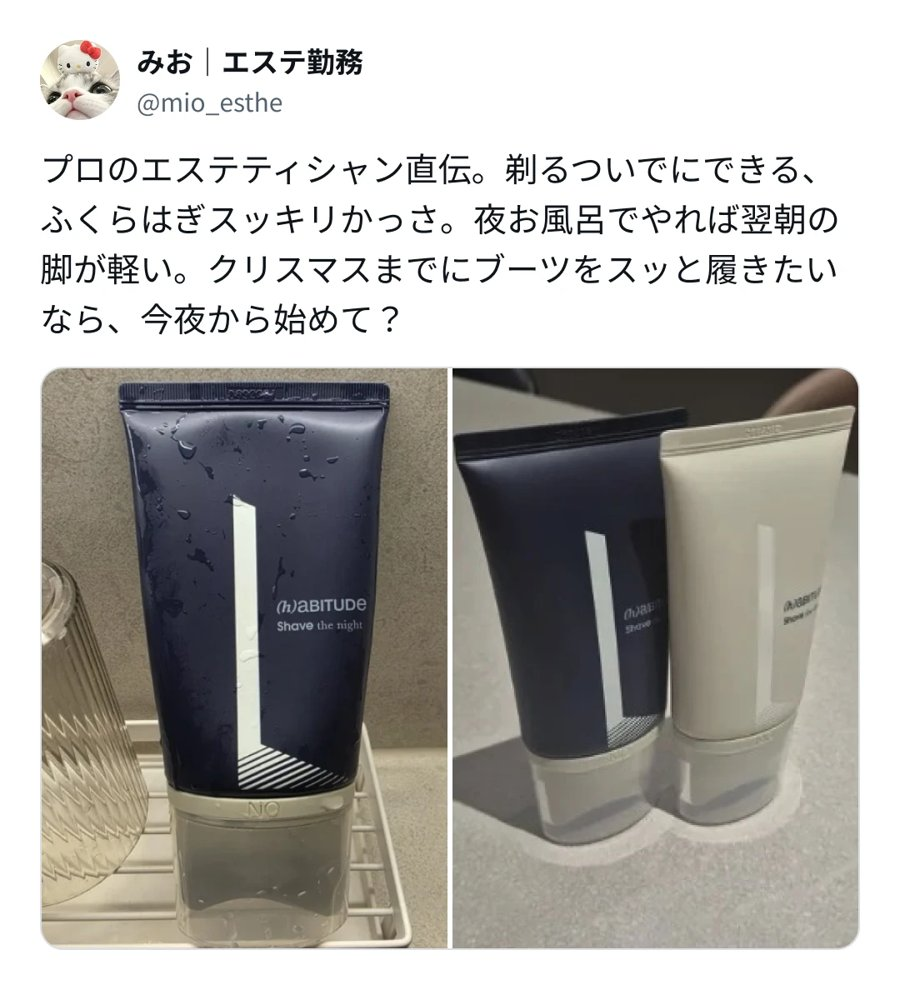
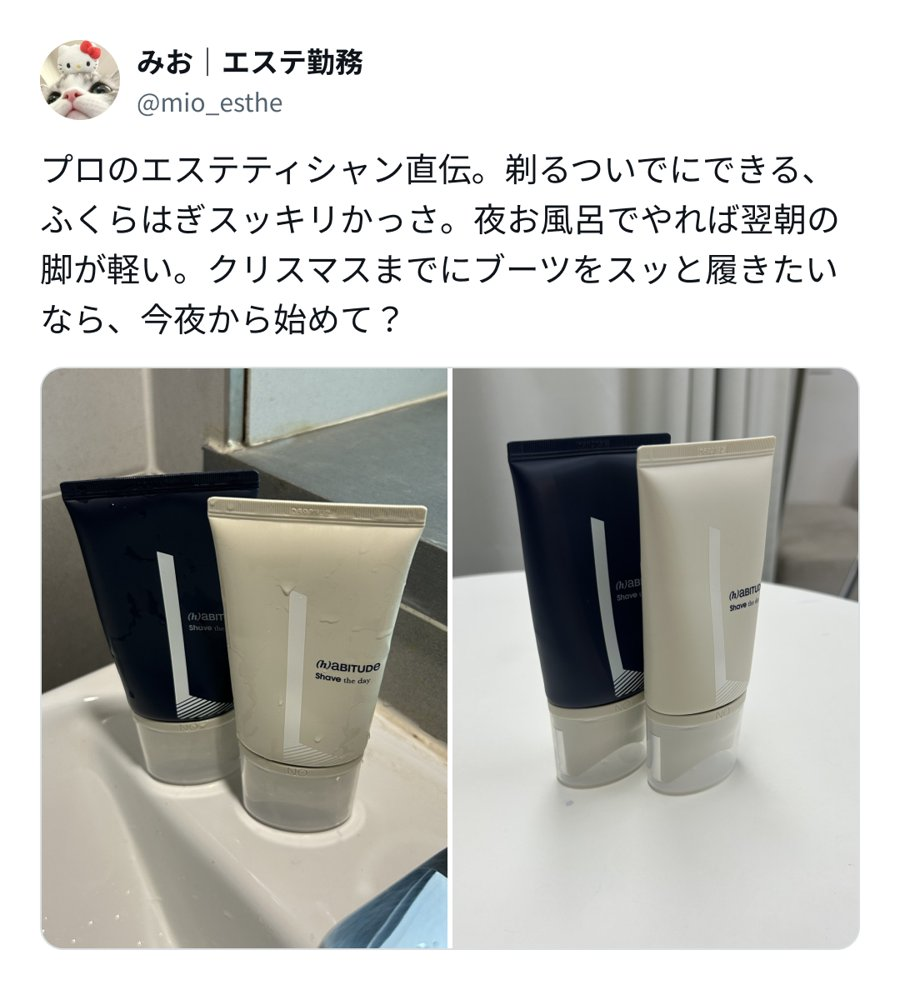
괄사젤 바이럴 소재 사진을 실착 컷으로 교체

diff --git a/guasha_viral_2611/index.html b/guasha_viral_2611/index.html
@@ -87,7 +87,7 @@ h2 small{font-size:13px;color:var(--sub);font-weight:400}
   <img src="img/s2.jpg" alt="스토리 02 귀차니스트도 계속하는 케어">
   <div class="body">
     <div class="head"><span class="no">02</span><span class="title">귀차니스트도 계속하는 케어</span><span class="chip">스토리</span></div>
-    <p class="photo">배경: 욕실 선반 위 제품</p>
+    <p class="photo">배경: 욕실 선반 위 네이비·아이보리 2종</p>
     <div class="pair"><span class="label">질문</span><span class="ja-t">マッサージって続かない…ズボラでもできるむくみケアありますか？</span><span class="ko-t">마사지는 꾸준히 못 하겠어요… 귀찮아하는 사람도 할 수 있는 붓기 케어 있나요?</span></div>
     <div class="pair"><span class="label">답변</span><span class="ja-t">ズボラな私でも続いてるのがこれ🙌 ジェルの先がかっさだから、塗りながら流すだけ！</span><span class="ko-t">귀찮아하는 저도 계속 쓰고 있는 게 이거예요. 젤 끝이 괄사라서 바르면서 쓸어주기만 하면 돼요!</span></div>
     <div class="pair"><span class="label">링크 스티커</span><span class="ja-t">🔗 リンクはこちら🛁</span><span class="ko-t">링크는 여기</span></div>
@@ -100,7 +100,7 @@ h2 small{font-size:13px;color:var(--sub);font-weight:400}
   <img src="img/x3.jpg" alt="X 03 방향 가이드">
   <div class="body">
     <div class="head"><span class="no">03</span><span class="title">방향 가이드</span><span class="chip">X</span></div>
-    <p class="photo">사진: 팔에 젤을 바르며 괄사하는 컷</p>
+    <p class="photo">사진: 욕실에서 손에 든 제품</p>
     <div class="pair"><span class="label">본문</span><span class="ja-t">ワキと脚のむくみが気になる人は、足首→ひざ裏、ひじ→ワキの向きでかっさしてから剃るとスッキリ見えて肌もつるん。クリスマスまでに毎晩お風呂でやってみて。</span><span class="ko-t">겨드랑이·다리 붓기가 신경 쓰이면 발목→무릎 뒤, 팔꿈치→겨드랑이 방향으로 괄사한 뒤 면도하면 산뜻해 보이고 피부도 매끈해요. 크리스마스까지 매일 밤 욕실에서 해보세요.</span></div>
   </div>
 </article>
@@ -119,7 +119,7 @@ h2 small{font-size:13px;color:var(--sub);font-weight:400}
   <img src="img/x5.jpg" alt="X 05 에스테티션 직전">
   <div class="body">
     <div class="head"><span class="no">05</span><span class="title">에스테티션 직전</span><span class="chip">X</span></div>
-    <p class="photo">사진: 욕실 선반 위 제품 + 네이비·아이보리 2종</p>
+    <p class="photo">사진: 세면대 위 2종 + 테이블 위 2종</p>
     <div class="pair"><span class="label">본문</span><span class="ja-t">プロのエステティシャン直伝。剃るついでにできる、ふくらはぎスッキリかっさ。夜お風呂でやれば翌朝の脚が軽い。クリスマスまでにブーツをスッと履きたいなら、今夜から始めて？</span><span class="ko-t">프로 에스테티션이 알려주는 방법. 면도하는 김에 할 수 있는 종아리 산뜻 괄사. 밤에 욕실에서 하면 다음 날 아침 다리가 가벼워요. 크리스마스까지 부츠를 스윽 신고 싶다면 오늘 밤부터 시작해 볼까요?</span></div>
   </div>
 </article>
@@ -128,7 +128,7 @@ h2 small{font-size:13px;color:var(--sub);font-weight:400}
   <img src="img/x6.jpg" alt="X 06 귀차니스트 리뷰">
   <div class="body">
     <div class="head"><span class="no">06</span><span class="title">귀차니스트 리뷰</span><span class="chip">X · 답글 포함</span></div>
-    <p class="photo">사진: 손에 든 제품(헤드 쪽) + 제품·패키지</p>
+    <p class="photo">사진: 헤드를 위로 든 제품 + 2종·패키지</p>
     <div class="pair"><span class="label">본문</span><span class="ja-t">アビチュードの「かっさジェル」優秀すぎ。脚スッキリさせたいけど、マッサージが続かないズボラ民は聞いて..。ジェルの先がかっさになってて、お風呂で塗りながら流すだけ。手も汚れないし、剃るのもこれ1本。3日目には夜の脚の重さが気にならなくなってた。クリスマス前の今始めるのが正解。でも、ひとつ注意点あって</span><span class="ko-t">아비튜드 「괄사젤」 너무 우수해요. 다리는 산뜻하게 하고 싶은데 마사지가 안 이어지는 귀차니스트는 들어보세요. 젤 끝이 괄사라 욕실에서 바르면서 쓸어주기만 하면 돼요. 손도 안 묻고 면도도 이거 하나로. 3일째엔 밤에 다리 무거운 게 신경 쓰이지 않았어요. 크리스마스 전인 지금 시작하는 게 정답. 그런데 주의할 점이 하나 있어서</span></div>
     <div class="pair"><span class="label">답글</span><span class="ja-t">気持ちよくて長風呂しがちなので、のぼせ注意です🛁 メガ割で2本3,560円だったから即買いした</span><span class="ko-t">기분 좋아서 목욕이 길어지니 어지러움 주의하세요. 메가와리로 2개에 3,560엔이라 바로 샀어요</span></div>
   </div>
@@ -138,7 +138,7 @@ h2 small{font-size:13px;color:var(--sub);font-weight:400}
   <img src="img/x7.jpg" alt="X 07 하나로 4역">
   <div class="body">
     <div class="head"><span class="no">07</span><span class="title">하나로 4역</span><span class="chip">X</span></div>
-    <p class="photo">사진: 팔에 바르는 컷 + 세면대에서 든 제품</p>
+    <p class="photo">사진: 괄사 헤드에 젤을 짠 컷 + 세면대 위 2종</p>
     <div class="pair"><span class="label">본문</span><span class="ja-t">お風呂のかっさジェル、これ1本で4役なのが優秀すぎる🛁 塗って、流して、剃って、2本セットで家族とシェアも。クリスマスまでに脚スッキリさせたい人はぜひ今回のメガ割で購入してみて！</span><span class="ko-t">욕실용 괄사젤, 이거 하나로 4역이라 너무 우수해요. 바르고, 쓸어주고, 면도하고, 2개 세트라 가족과 나눠 쓰기도. 크리스마스까지 다리를 산뜻하게 하고 싶은 분은 이번 메가와리에서 꼭 구매해 보세요!</span></div>
   </div>
 </article>
@@ -147,7 +147,7 @@ h2 small{font-size:13px;color:var(--sub);font-weight:400}
   <img src="img/x8.jpg" alt="X 08 커플 선물">
   <div class="body">
     <div class="head"><span class="no">08</span><span class="title">커플 선물</span><span class="chip">X</span></div>
-    <p class="photo">사진: 네이비·아이보리 2종 + 괄사 헤드 클로즈업</p>
+    <p class="photo">사진: 2종·패키지를 든 컷 + 아이보리 헤드 클로즈업</p>
     <div class="pair"><span class="label">본문</span><span class="ja-t">彼氏へのクリスマスプレゼント、ネイビーを彼に、アイボリーを私に🎄 立ち仕事でむくみがちな彼と、お風呂でおそろいケア。剃るのもマッサージもこれ1本だから喜ばれた。なんと今メガ割中だから安く買えました！保存推奨⚠</span><span class="ko-t">남자친구 크리스마스 선물, 네이비는 그에게, 아이보리는 나에게. 서서 일해서 잘 붓는 그와 욕실에서 커플 케어. 면도도 마사지도 이거 하나라 좋아했어요. 게다가 지금 메가와리 중이라 싸게 샀어요! 저장 추천⚠</span></div>
   </div>
 </article>
